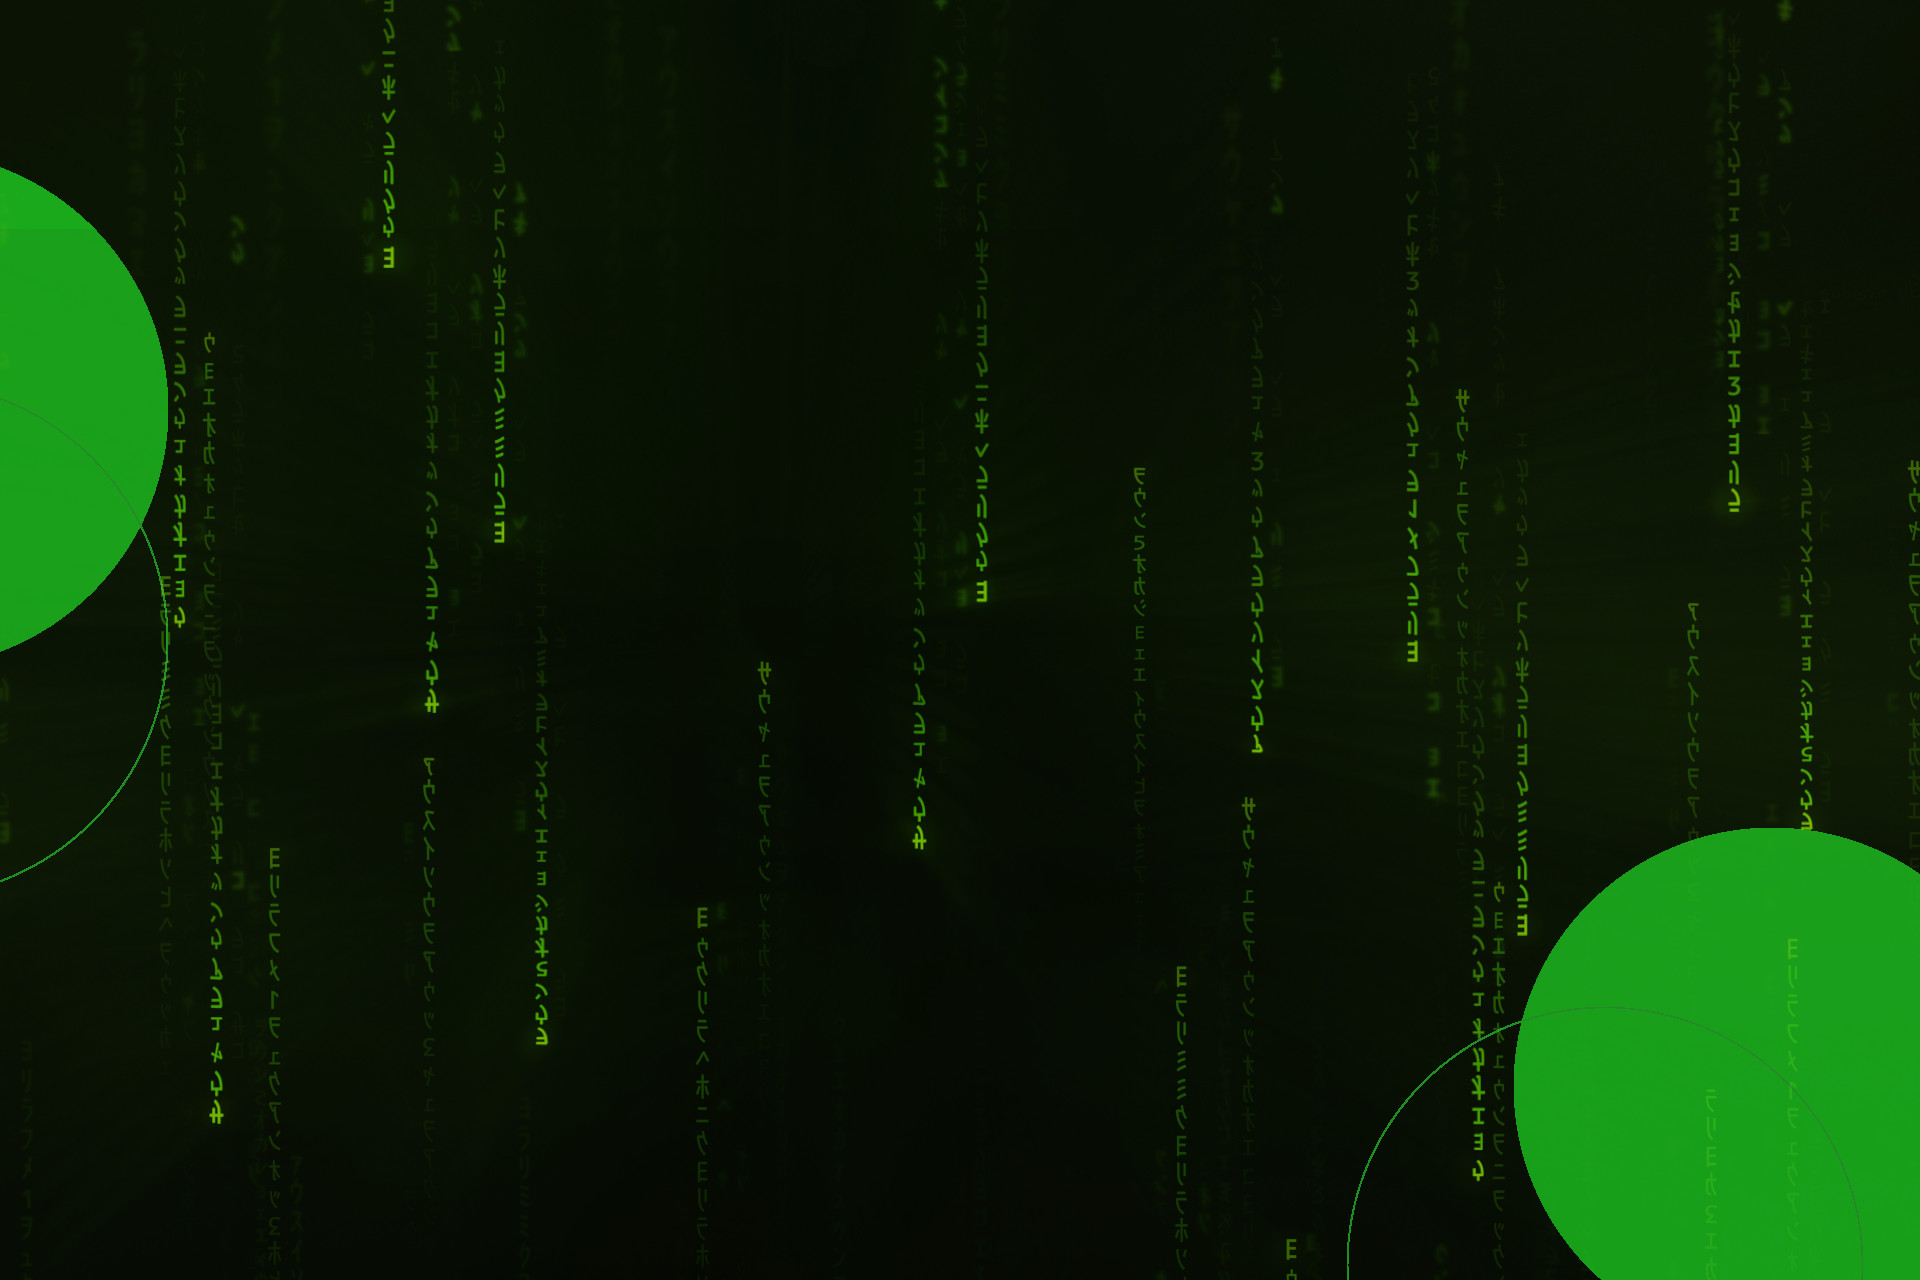
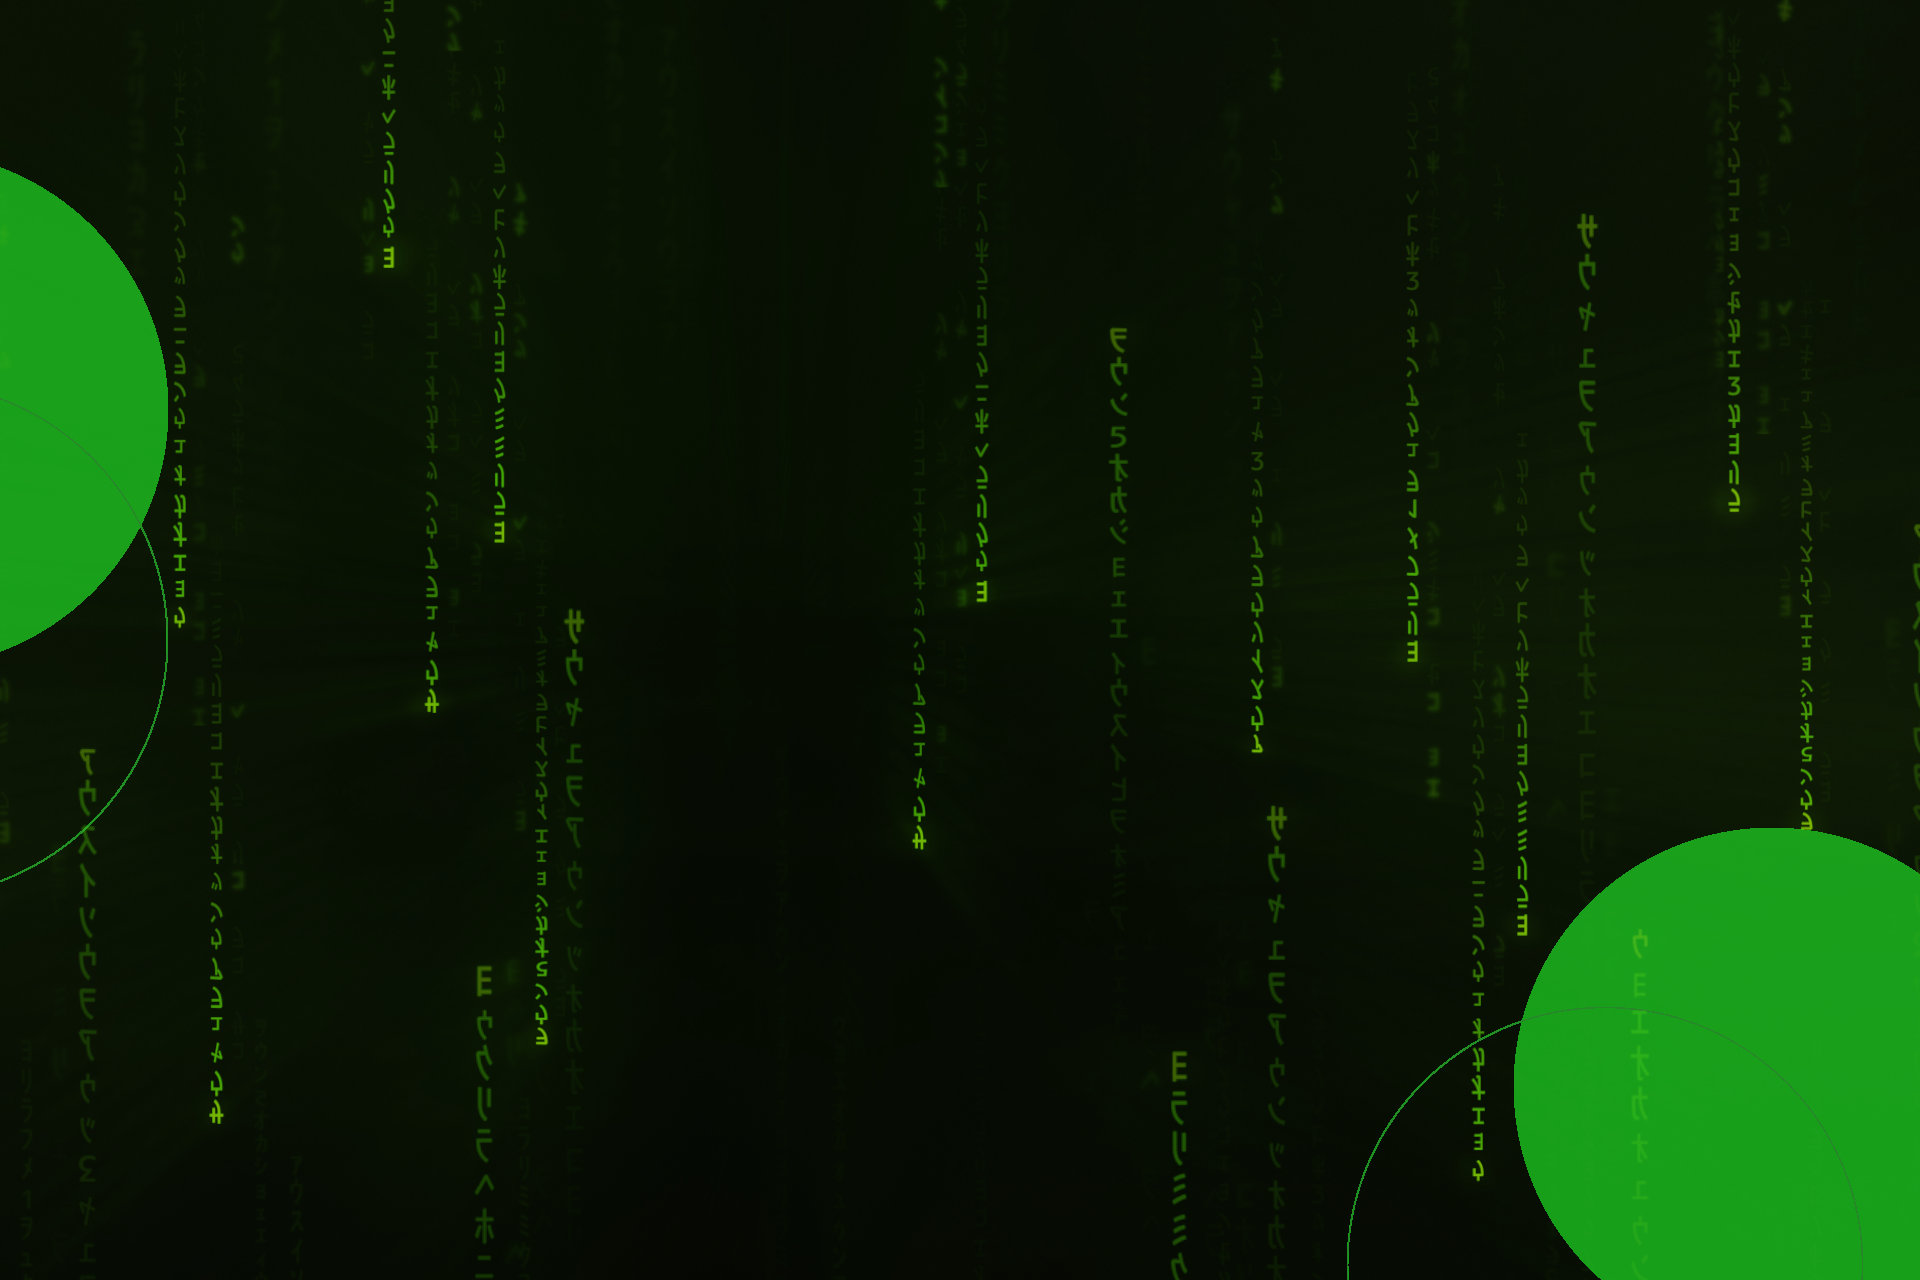
Modified background, images and texts

diff --git a/core/css/styles.css b/core/css/styles.css
@@ -145,11 +145,18 @@ button.primary:focus,
 	color: var(--primary-text-color);
 	border: 1px solid var(--secondary-text-color);
 }
+#body-login input[type=“text”],
+#body-login input[type=“password”],
+#body-login input[type=“email”] {
+border: none;
+font-weight: 300;
+background-color: #BB5314;
+}
 :root {
     --primary-background-color: #000000;
     --primary-text-color: #ffffff;
     --secondary-background-color: #00ff0d;
     --secondary-text-color: #000000;
-    --paragraph-title-text-color: #365237;;
+	--paragraph-title-text-color: #365237;
     --hoovering-color: #00ff0d;
 }

diff --git a/defaults.php b/defaults.php
@@ -81,7 +81,7 @@ class OC_Theme {
 	 * @return string title
 	 */
 	public function getName() {
-		return 'Mrmara Cloud Storage';
+		return '<a href="https://mrmara.it">Mrmara Cloud Storage</a>';
 	}
 
 	/**
@@ -113,7 +113,7 @@ class OC_Theme {
 	 * @return string logo claim
 	 */
 	public function getLogoClaim() {
-		return '<a href="https://mrmara.it">Mrmara free and limitless cloud storage</a>';
+		return '';
 	}
 
 	public function getPrivacyPolicyUrl() {
